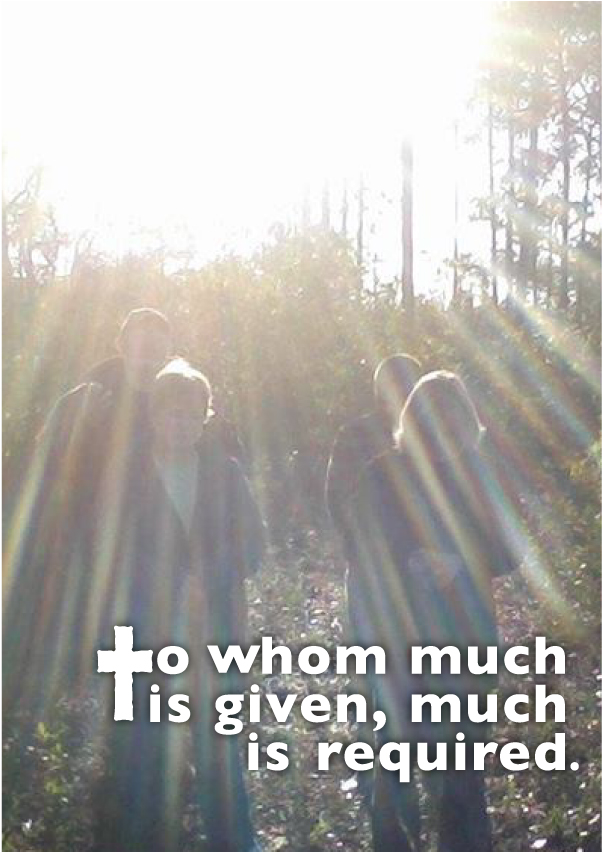
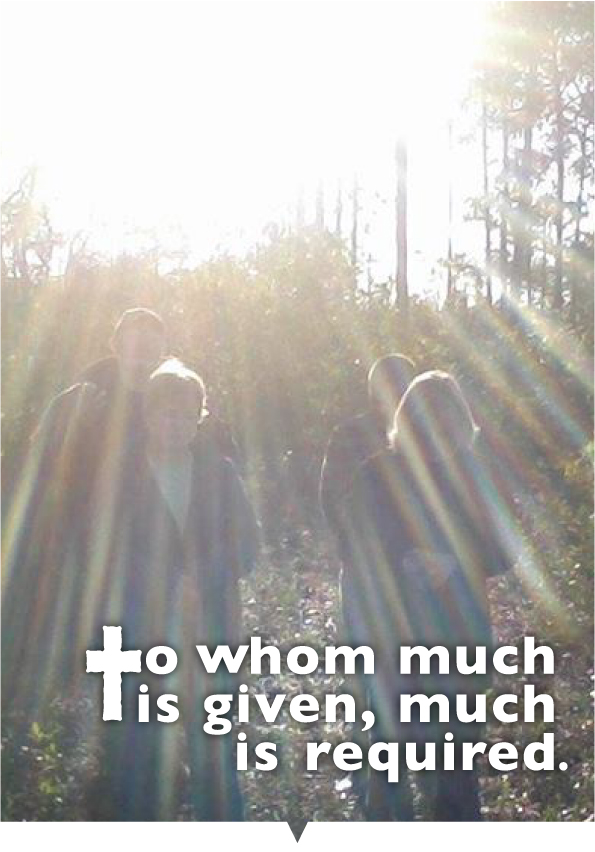
Added scroll listener to change header bg to white on scroll.

diff --git a/css/styles.css b/css/styles.css
@@ -15,6 +15,8 @@ body {
   margin: 0;
   padding: 0;
   background-color: lightgray;
+    transition: all 1s ease;
+
 }
 
 header {
@@ -27,6 +29,7 @@ header {
   width: 100%;
   max-width: 1100px;
   margin-top: 0px;
+  transition: all 1s ease;
 }
 
 @media screen and (min-width: 600px) {
@@ -44,16 +47,24 @@ nav {
   width: 100%;
   font-size: 12px;
   text-transform: capitalize;
-  background-color: rgba(255, 255, 255, 0.7);
   padding-bottom: 7px;
 }
 
+.white {
+  background-color: rgba(255, 255, 255, 1.0);
+  background-image: none;
+  padding: 10px 0;
+  margin-top: 0;
+  transition: all 1s ease;
+
+}
 
 .nav-bg-mobile {
   grid-column: 3 / -3;
   grid-row: 2 / span 2;
-  background-color: rgba(125, 182, 86, .67);
-  background-image: url(https://raw.githubusercontent.com/SarahEW1206/ezra-min/master/img/mobile-nav-bg.png)
+  background-image: url(https://raw.githubusercontent.com/SarahEW1206/ezra-min/master/img/mobile-nav-bg.png);
+  background-size: 100% 100%;
+  background-repeat: no-repeat;
 }
 
 
@@ -63,7 +74,7 @@ nav .logo-center {
   display: flex;
   justify-content: center;
   align-items: center;
-  padding: 10px 0;
+  padding: 20px 0 10px 0;
 }
 
 nav .home {
@@ -72,7 +83,7 @@ nav .home {
   display: flex;
   justify-content: center;
   align-items: center;
-  padding: 8px;
+  padding: 8px 0 4px 0;
   
 }
 
@@ -82,7 +93,7 @@ nav .mission {
   display: flex;
   justify-content: center;
   align-items: center;
-  padding: 8px;
+  padding: 8px 0 4px 0;
   
 }
 
@@ -92,7 +103,7 @@ nav .donate {
   display: flex;
   justify-content: center;
   align-items: center;
-  padding: 8px;
+  padding: 8px 0 4px 0;
 }
 
 nav .shelter {
@@ -101,7 +112,7 @@ nav .shelter {
   display: flex;
   justify-content: center;
   align-items: center;
-  padding: 8px;
+  padding: 4px 0 8px 0;
 }
 
 nav .store {
@@ -110,7 +121,7 @@ nav .store {
   display: flex;
   justify-content: center;
   align-items: center;
-  padding: 8px;
+  padding: 4px 0 8px 0;
 }
 
 nav .contact {
@@ -119,7 +130,7 @@ nav .contact {
   display: flex;
   justify-content: center;
   align-items: center;
-  padding: 8px;
+  padding: 4px 0 8px 0;
 }
 
 @media screen and (min-width: 600px) {
@@ -137,9 +148,7 @@ nav .contact {
   }
 
   .nav-bg-mobile {
-  grid-column: 3 / -3;
-  grid-row: 2 / span 2;
-  background-color: rgba(125, 182, 86, 0.0);
+  display: none;
 }
 
   nav .home {
@@ -210,6 +219,7 @@ nav .contact {
 .logo {
   width: 60%;
   max-width: 250px;
+  transition: all 1s ease;
 }
 
 @media screen and (min-width: 600px) {
@@ -218,10 +228,10 @@ nav .contact {
   }
 }
 
-.header-img {
-  width: 100%;
+.divot {
   position: relative;
-  z-index: 0;
+  bottom: 0px;
+  width: 100%;
 }
 
 .container {
@@ -230,4 +240,23 @@ nav .contact {
   display: block;
   margin: 0 auto;
   box-shadow: 0 0 4px black;
+  background-color: #ffffff;
+}
+
+.hero-img {
+  margin: 0;
+}
+
+.header-img {
+  width: 100%;
+  position: relative;
+  z-index: 0;
+}
+
+/*Store section of homepage*/
+.home-store {
+  height: 400px;
+  background-color: #ffffff;
+  margin: 0;
+  padding: 0;
 }

diff --git a/index.html b/index.html
@@ -19,7 +19,7 @@
 
   <header>
     <nav>
-<div class="nav-bg-mobile"></div>
+      <div class="nav-bg-mobile"></div>
       <div class="home">Home</div>
       <div class="mission">Mission</div>
       <div class="donate">Donate</div>
@@ -27,7 +27,7 @@
       <div class="shelter">Shelter</div>
       <div class="store">Store</div>
       <div class="contact">Contact</div>
-      
+
 
     </nav>
 
@@ -41,11 +41,15 @@
           <source media="(min-width: 600px)" srcset="img/hero-img.jpg">
             <img class="header-img"  src="img/hero-img-small.jpg" alt="Ezra Ministries Main Image">
           </picture>
-          
+        </section>
+
+        <section class="home-store">
+
         </section>
 
 
       </div>
 
+    <script src="js/app.js"></script>
     </body>
     </html>

diff --git a/js/app.js b/js/app.js
@@ -1,0 +1,15 @@
+function navShrink() {
+
+    const header = document.querySelector('header')
+    document.addEventListener("scroll", function () {
+        if
+        (window.pageYOffset > 100) {
+            header.classList.add("white");
+        }
+        else {
+            header.classList.remove("white");
+        }
+    });
+};
+
+navShrink();
